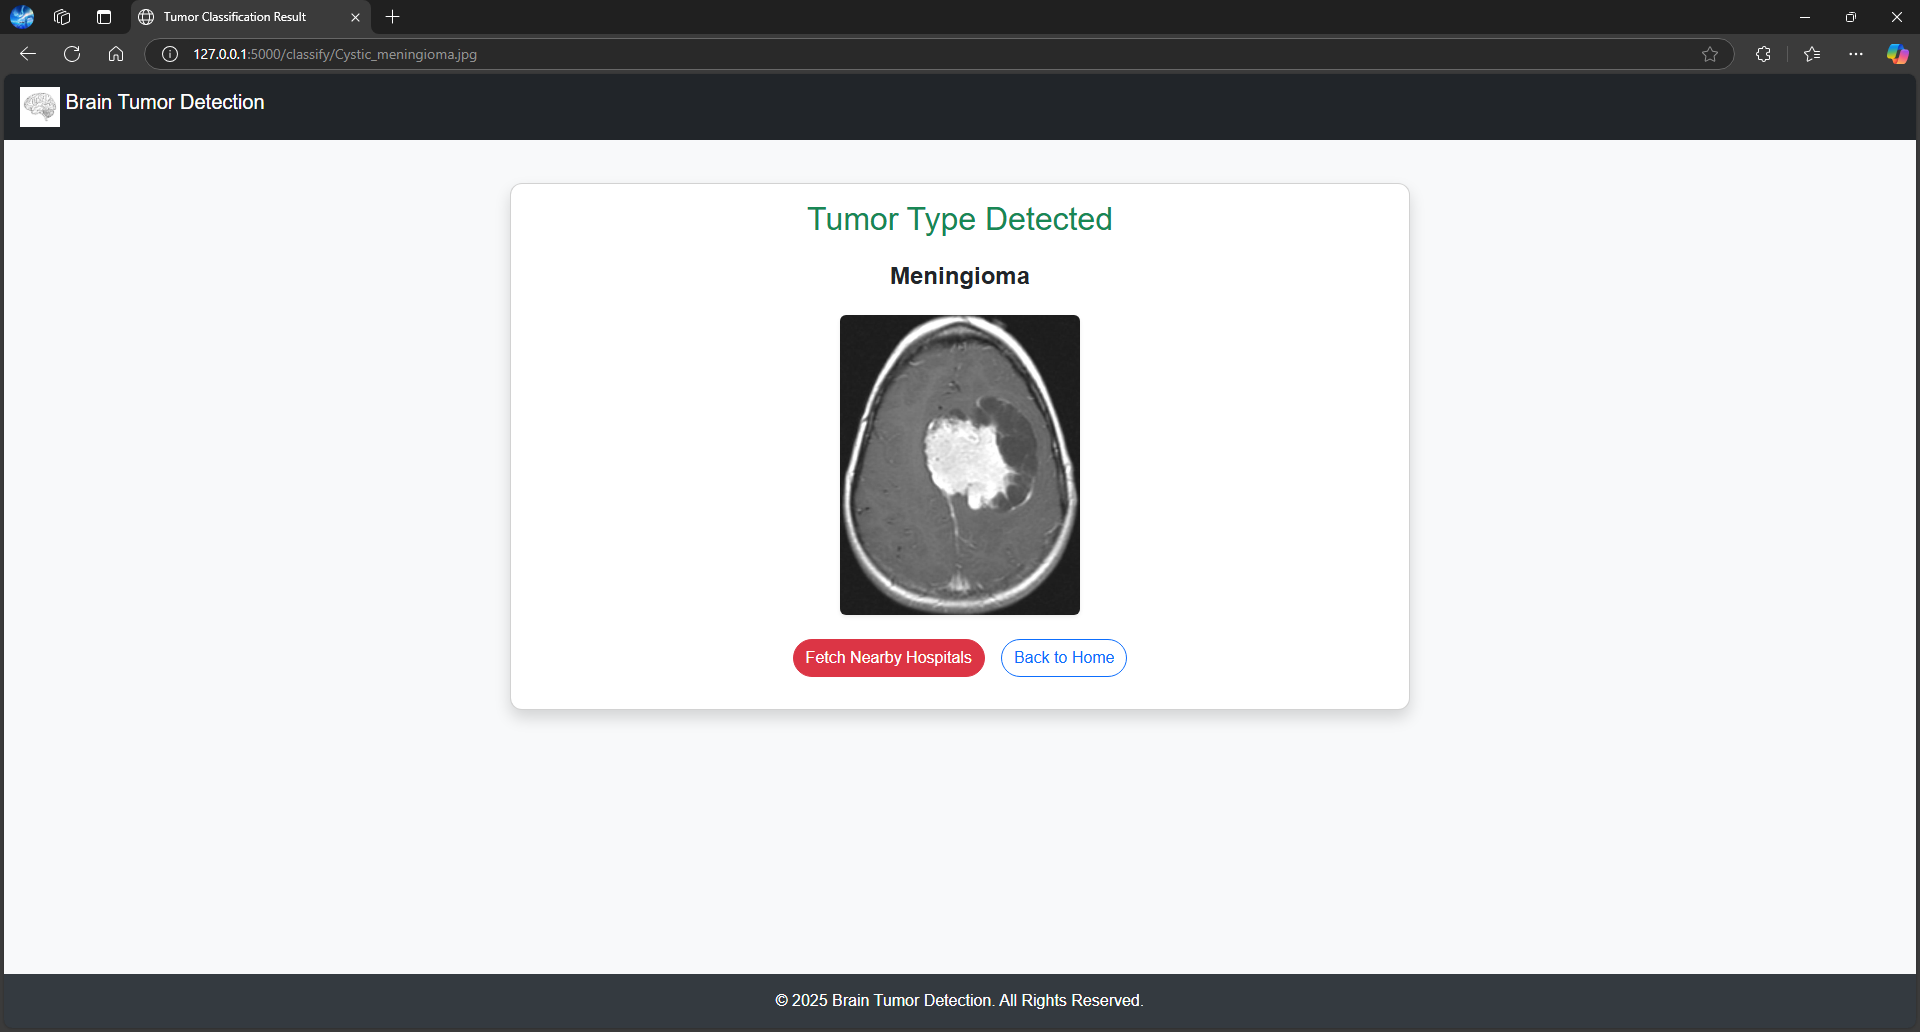
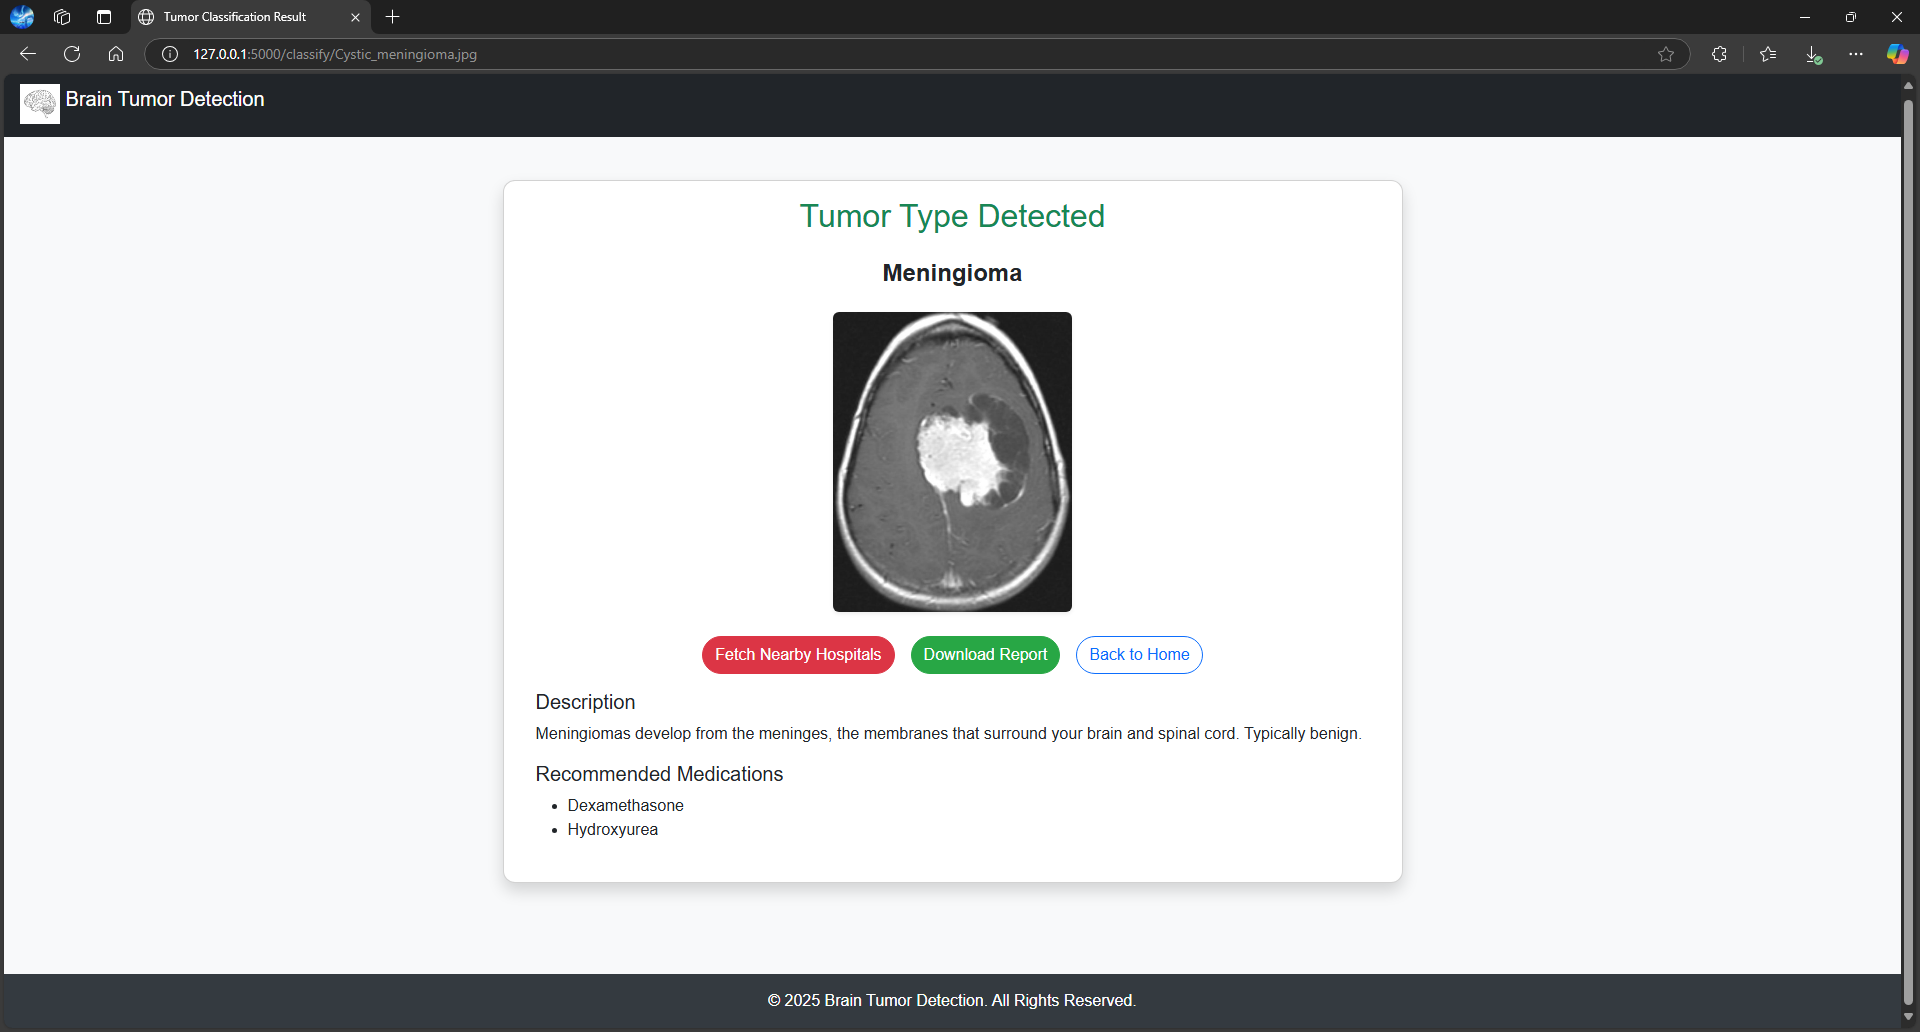
added download report

diff --git a/static/styles.css b/static/styles.css
@@ -1,16 +1,27 @@
-/* style.css */
+:root {
+  --bg-light: #f8f9fa;
+  --font-sans: 'Helvetica Neue', Helvetica, Arial, sans-serif;
+  --card-radius: 12px;
+  --primary: #007bff;
+  --success: #28a745;
+  --footer-bg: #343a40;
+  --footer-text: #adb5bd;
+  --footer-hover-bg: #23272b;
+}
+
 body {
-  background-color: #f8f9fa; /* Soft light gray */
-  font-family: 'Helvetica Neue', Helvetica, Arial, sans-serif;
+  background-color: var(--bg-light);
+  font-family: var(--font-sans);
   transition: background-color 0.3s ease;
 }
 
 h1, h2, h3, h4, h5 {
-  font-family: 'Helvetica Neue', Helvetica, Arial, sans-serif;
+  font-family: var(--font-sans);
 }
 
+/* Card styling */
 .card {
-  border-radius: 12px;
+  border-radius: var(--card-radius);
   transition: transform 0.3s ease, box-shadow 0.3s ease;
   box-shadow: 0 2px 8px rgba(0,0,0,0.1);
 }
@@ -19,6 +30,7 @@ h1, h2, h3, h4, h5 {
   box-shadow: 0 4px 16px rgba(0,0,0,0.15);
 }
 
+/* Button styling */
 .btn {
   border-radius: 20px;
   transition: transform 0.2s ease, background-color 0.2s ease;
@@ -27,6 +39,18 @@ h1, h2, h3, h4, h5 {
 }
 .btn:hover {
   transform: scale(1.05);
+}
+
+/* Ensure .btn-success uses theme variable */
+.btn-success {
+  background-color: var(--success);
+  border-color: var(--success);
+}
+
+/* Focus outline for accessibility */
+.btn:focus {
+  outline: 3px solid rgba(0,123,255,0.5);
+  outline-offset: 2px;
 }
 
 /* Button ripple effect */
@@ -46,7 +70,7 @@ h1, h2, h3, h4, h5 {
   transition: opacity 0s;
 }
 
-/* Heading animation */
+/* Heading animations */
 @keyframes fadeInUp {
   from {
     opacity: 0;
@@ -62,8 +86,7 @@ h1, h2, h3, h4, h5 {
   animation: fadeInUp 0.6s ease-out;
 }
 
-/* Hospital list styling */
-#hospital-results h3,
+/* Hospital list styling - tightened selector */
 #hospital-results h5 {
   animation: fadeInUp 0.6s ease-out;
 }
@@ -79,16 +102,23 @@ h1, h2, h3, h4, h5 {
 
 /* Link hover effect */
 a.btn-outline-primary:hover {
-  background-color: #007bff;
+  background-color: var(--primary);
   color: #fff;
 }
 
 /* Footer styling */
 footer {
-  background-color: #343a40;
-  color: #adb5bd;
+  background-color: var(--footer-bg);
+  color: var(--footer-text);
   transition: background-color 0.3s ease;
 }
 footer:hover {
-  background-color: #23272b;
+  background-color: var(--footer-hover-bg);
+}
+
+/* Responsive tweaks */
+@media (max-width: 400px) {
+  .card {
+    padding: 1rem;
+  }
 }

diff --git a/templates/classification.html b/templates/classification.html
@@ -40,7 +40,7 @@
     <nav class="navbar navbar-dark bg-dark px-3">
       <a class="navbar-brand" href="{{ url_for('upload_file') }}">
         <img
-          src="https://img.freepik.com/free-psd/brain-outline-illustration_23-2150761744.jpg?t=st=1742792102~exp=1742795702~hmac=464d69a3805298760566360ec4ff42972ab422f0c125c02b09a1e1fd2d5ecffd&w=740"
+          src="https://img.freepik.com/free-psd/brain-outline-illustration_23-2150761744.jpg"
           width="40"
           height="40"
           class="d-inline-block align-top"
@@ -65,10 +65,21 @@
 
           <!-- Buttons Row -->
           <div class="d-flex justify-content-center gap-3 mb-3">
-            <!-- Fetch Nearby Hospitals Button -->
             <button id="contact-btn" class="btn btn-danger">Fetch Nearby Hospitals</button>
-            <!-- Back to Home Button -->
+            <a href="{{ url_for('download_report', filename=filename) }}" class="btn btn-success">Download Report</a>
             <a href="{{ url_for('upload_file') }}" class="btn btn-outline-primary">Back to Home</a>
+          </div>
+
+          <!-- Tumor Description and Medications -->
+          <div id="tumor-info" class="text-start mb-4 px-3">
+            <h5>Description</h5>
+            <p>{{ tumor_description }}</p>
+            <h5>Recommended Medications</h5>
+            <ul>
+              {% for med in medications %}
+                <li>{{ med }}</li>
+              {% endfor %}
+            </ul>
           </div>
 
           <!-- Hospital Results -->

diff --git a/app.py b/app.py
@@ -1,9 +1,15 @@
 import os
-from flask import Flask, render_template, request, redirect, url_for
+import traceback
+from flask import Flask, render_template, request, redirect, url_for, send_file
 from werkzeug.utils import secure_filename
 import numpy as np
 import cv2
 from tensorflow.keras.models import load_model
+from flask import send_file
+from reportlab.pdfgen import canvas
+from reportlab.lib.pagesizes import letter
+from io import BytesIO
+from datetime import datetime
 
 app = Flask(__name__)
 
@@ -21,7 +27,6 @@ model_paths = [
     'best_model7.h5',
     'best_model8.h5'
 ]
-
 for path in model_paths:
     try:
         m = load_model(path)
@@ -33,20 +38,35 @@ for path in model_paths:
 # Tumor label mapping
 tumor_labels = ['Glioma', 'Meningioma', 'Pituitary', 'Other']
 
+# Tumor info lookups
+tumor_descriptions = {
+    'Glioma':     "Gliomas are tumors that arise from glial cells in the brain and spine. They can be slow or fast growing.",
+    'Meningioma': "Meningiomas develop from the meninges, the membranes that surround your brain and spinal cord. Typically benign.",
+    'Pituitary':  "Pituitary tumors occur in the pituitary gland and can affect hormone production.",
+    'Other':      "Other less common or unspecified tumor types."
+}
+
+tumor_medications = {
+    'Glioma':     ["Temozolomide", "Bevacizumab"],
+    'Meningioma': ["Dexamethasone", "Hydroxyurea"],
+    'Pituitary':  ["Cabergoline", "Pegvisomant"],
+    'Other':      ["Consult specialist"]
+}
+
 # Upload config
 UPLOAD_FOLDER = os.path.join('static', 'uploads')
 ALLOWED_EXTENSIONS = {'png', 'jpg', 'jpeg'}
 app.config['UPLOAD_FOLDER'] = UPLOAD_FOLDER
 
 # Create upload folder if missing
-if not os.path.exists(UPLOAD_FOLDER):
-    os.makedirs(UPLOAD_FOLDER)
+os.makedirs(UPLOAD_FOLDER, exist_ok=True)
 
 def allowed_file(filename):
     return '.' in filename and filename.rsplit('.', 1)[1].lower() in ALLOWED_EXTENSIONS
 
+
 def preprocess_image(img_path, target_size):
-    """Reads and preprocesses image to match the target size (used per model)."""
+    """Reads and preprocesses image to match the target size."""
     img = cv2.imread(img_path)
     if img is None:
         raise ValueError(f"Cannot load image: {img_path}")
@@ -74,21 +94,15 @@ def upload_file():
 @app.route('/predict/<filename>')
 def predict(filename):
     img_path = os.path.join(app.config['UPLOAD_FOLDER'], filename)
-
     try:
-        # Use model1's input size for preprocessing
         input_shape = model1.input_shape
         target_size = (input_shape[1], input_shape[2])
         img = preprocess_image(img_path, target_size)
-
         pred1 = model1.predict(img)[0][0]
         pred2 = model2.predict(img)[0][0]
-
         class1 = 1 if pred1 >= 0.5 else 0
         class2 = 1 if pred2 >= 0.5 else 0
-
         show_classification_button = False
-
         if class1 == 1 and class2 == 1:
             final_prediction = "Tumor Detected"
             tumor_detected = True
@@ -115,7 +129,6 @@ def predict(filename):
                     f"Model2 Probability: {pred2:.2f}<br>"
                     f"Combined Probability: {combined_prob:.2f}"
                 )
-
     except Exception as e:
         return f"Error during binary classification: {e}"
 
@@ -129,23 +142,55 @@ def predict(filename):
 
 @app.route('/classify/<filename>')
 def classify(filename):
-    if len(classification_models) == 0:
+    if not classification_models:
         return "No classification models available."
-
     img_path = os.path.join(app.config['UPLOAD_FOLDER'], filename)
-
     try:
         img_raw = cv2.imread(img_path)
         if img_raw is None:
             raise ValueError("Image not found or unreadable.")
+        preds = []
+        for m in classification_models:
+            h, w = m.input_shape[1], m.input_shape[2]
+            img = cv2.resize(img_raw, (w, h))
+            img = cv2.cvtColor(img, cv2.COLOR_BGR2RGB)
+            img = img.astype(np.float32) / 255.0
+            img = np.expand_dims(img, axis=0)
+            p = m.predict(img)
+            idx = int(np.argmax(p))
+            preds.append(tumor_labels[idx])
+        final_label = max(set(preds), key=preds.count)
+    except Exception as e:
+        app.logger.error(traceback.format_exc())
+        return f"<h3>Classification Error</h3><pre>{e}</pre>"
+
+    # Lookup description + meds
+    desc = tumor_descriptions.get(final_label, "No description available.")
+    meds = tumor_medications.get(final_label, [])
+
+    return render_template(
+        'classification.html',
+        filename=filename,
+        tumor_type=final_label,
+        tumor_description=desc,
+        medications=meds
+    )
+
+@app.route('/download_report/<filename>')
+def download_report(filename):
+    try:
+        # Get image path
+        img_path = os.path.join(app.config['UPLOAD_FOLDER'], filename)
+
+        # Re-run classification to get tumor type
+        img_raw = cv2.imread(img_path)
+        if img_raw is None:
+            return "Unable to read image for report."
 
         predictions = []
-
         for model in classification_models:
-            # Dynamically extract input shape
             input_shape = model.input_shape
             height, width = input_shape[1], input_shape[2]
-
             img = cv2.resize(img_raw, (width, height))
             img = cv2.cvtColor(img, cv2.COLOR_BGR2RGB)
             img = img.astype(np.float32) / 255.0
@@ -155,16 +200,56 @@ def classify(filename):
             label_index = int(np.argmax(pred))
             predictions.append(tumor_labels[label_index])
 
-        # Majority voting
         final_label = max(set(predictions), key=predictions.count)
+        description = tumor_descriptions.get(final_label, "N/A")
+        meds = tumor_medications.get(final_label, ["N/A"])
+
+        # Create PDF in memory
+        buffer = BytesIO()
+        p = canvas.Canvas(buffer, pagesize=letter)
+        width, height = letter
+
+        # Title
+        p.setFont("Helvetica-Bold", 16)
+        p.drawString(50, height - 50, "Brain Tumor Detection Report")
+
+        # Metadata
+        p.setFont("Helvetica", 12)
+        p.drawString(50, height - 80, f"Filename: {filename}")
+        p.drawString(50, height - 100, f"Date: {datetime.now().strftime('%Y-%m-%d %H:%M:%S')}")
+
+        # Tumor Type
+        p.setFont("Helvetica-Bold", 14)
+        p.drawString(50, height - 140, f"Tumor Type: {final_label}")
+
+        # Description
+        p.setFont("Helvetica", 12)
+        p.drawString(50, height - 170, "Description:")
+        text_object = p.beginText(60, height - 190)
+        for line in description.split('. '):
+            text_object.textLine(line.strip())
+        p.drawText(text_object)
+
+        # Medications
+        p.drawString(50, height - 330, "Recommended Medications:")
+        y_pos = height - 350
+        for med in meds:
+            p.drawString(70, y_pos, f"- {med}")
+            y_pos -= 20
+
+        # Finalize PDF
+        p.showPage()
+        p.save()
+
+        buffer.seek(0)
+        return send_file(buffer, as_attachment=True, download_name="tumor_report.pdf", mimetype='application/pdf')
 
     except Exception as e:
-        return f"An error occurred during further classification: {e}"
-
-    return render_template('classification.html', filename=filename, tumor_type=final_label)
+        return f"Failed to generate report: {e}"
 
 if __name__ == "__main__":
     app.run(debug=True, port=5000)
+
     # app.run(host='0.0.0.0', port=3000)
 
 
